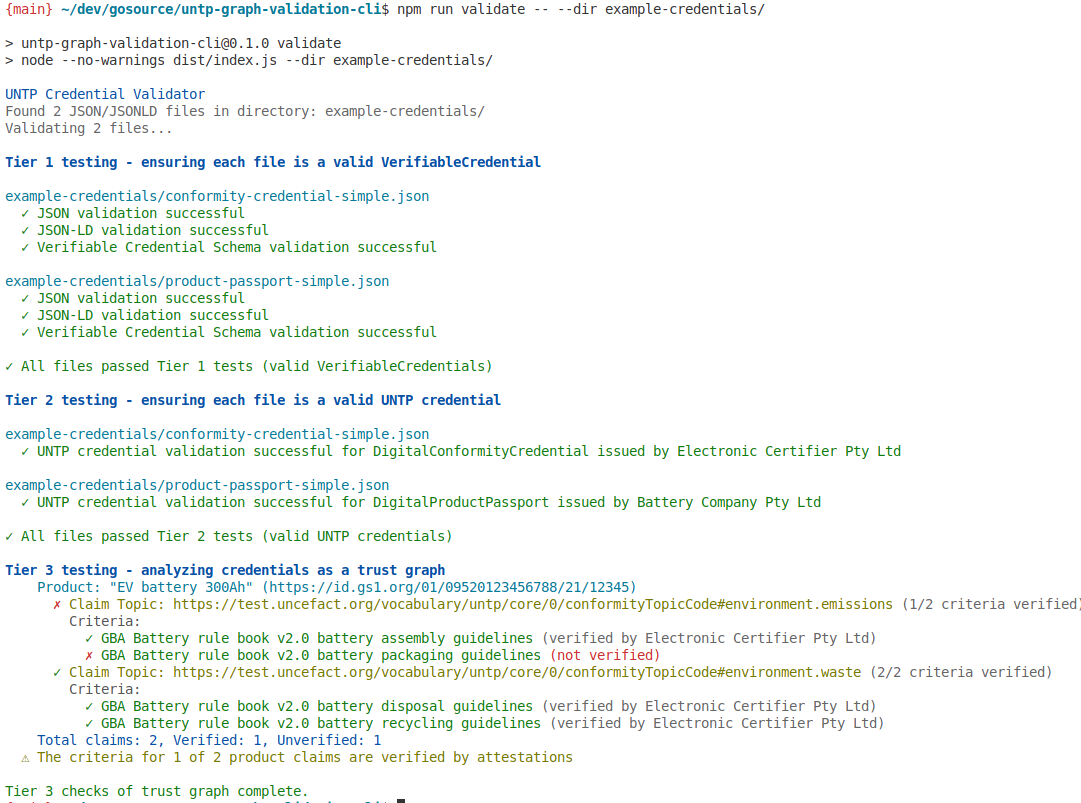
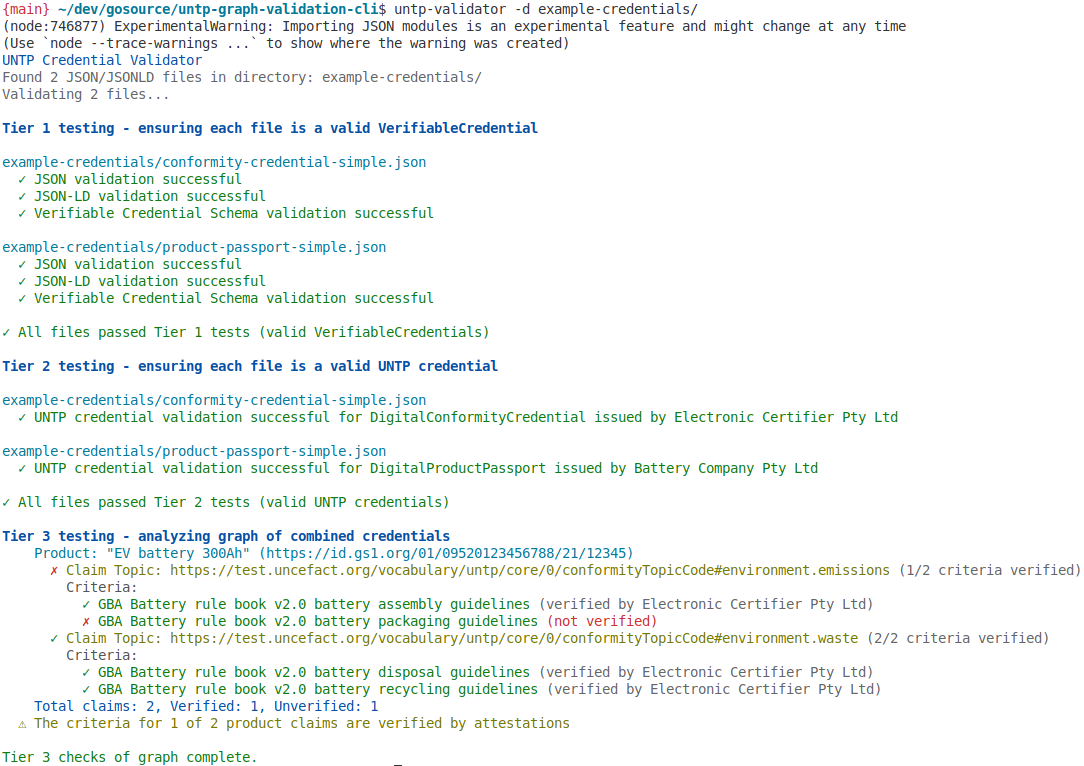
Remove word 'trust' from each occurance where it deosn't fit

Changed region(s): [[0.0, 0.0, 1.0, 1.0], [0.3663, 0.9909, 0.3969, 1.0]]

diff --git a/src/cli/tier3.ts b/src/cli/tier3.ts
@@ -113,11 +113,11 @@ export async function tier3ChecksForGraph(
   totalFiles: number;
   results: Record<string, ValidationResult>;
 }> {
-  console.log(chalk.blue.bold('\nTier 3 testing - analyzing credentials as a trust graph'));
+  console.log(chalk.blue.bold('\nTier 3 testing - analyzing graph of combined credentials'));
 
   // Create RDF graph from all files
   if (verbose) {
-    console.log(chalk.gray('  Creating trust graph from all credentials...'));
+    console.log(chalk.gray('  Creating graph from all credentials...'));
   }
   const { store, results, allQuads } = await createRDFGraph(filesData);
 
@@ -132,11 +132,11 @@ export async function tier3ChecksForGraph(
 
     if (result.valid) {
       if (verbose) {
-        console.log(chalk.green(`  ✓ Successfully added named graph ${result.metadata?.graphName} to trust graph (${result.metadata?.graphNodes || 0} quads)`));
+        console.log(chalk.green(`  ✓ Successfully added named graph ${result.metadata?.graphName} to graph (${result.metadata?.graphNodes || 0} quads)`));
       }
       validFiles++;
     } else {
-      console.log(chalk.red('  ✗ Failed to add to trust graph'));
+      console.log(chalk.red('  ✗ Failed to add to graph'));
       result.errors.forEach(error => {
         console.log(chalk.red(`    - ${error.message}`));
       });
@@ -148,7 +148,7 @@ export async function tier3ChecksForGraph(
     // Print total graph statistics
     const totalQuads = store.size;
     if (verbose) {
-      console.log(chalk.gray('\n  Analyzing trust graph...'));
+      console.log(chalk.gray('\n  Analyzing graph...'));
       console.log(chalk.gray(`\n  Total RDF quads in graph: ${totalQuads}`));
     }
 

diff --git a/src/cli/index.ts b/src/cli/index.ts
@@ -76,7 +76,7 @@ export async function runCLI(args: string[] = process.argv): Promise<void> {
           process.exit(1);
         }
 
-        console.log(chalk.green('\nTier 3 checks of trust graph complete.'));
+        console.log(chalk.green('\nTier 3 checks of graph complete.'));
 
         // Exit with success code if we got here (all files passed)
         process.exit(0);

diff --git a/README.md b/README.md
@@ -10,7 +10,7 @@ Example output:
 
 - **Tier 1 Validation**: Ensures each file is a valid JSON linked data and conforms to the W3C Verifiable Credential schema.
 - **Tier 2 Validation**: Determines the UNTP credential type and validates credentials against the UNTP-specific schemas, including required fields.
-- **Tier 3 Validation**: Creates a trust graph from the provided credentials and analyzes the relationships between credentials using trust graph validation, as a proof-of-concept, using [notation3](https://w3c.github.io/N3/spec/), and currently supporting:
+- **Tier 3 Validation**: Creates a graph from the provided credentials and analyzes the relationships between credentials using graph validation, as a proof-of-concept, using [notation3](https://w3c.github.io/N3/spec/), and currently supporting:
   - Verification of the criteria of product claims against conformity attestations
   - Saving the graph locally to ease the development of further N3 queries using semantic reasoning on the command-line.
 
@@ -53,7 +53,7 @@ npm run validate -- --save-graph example-credentials/product-passport-simple.jso
 
 ## Notation3 Queries
 
-The Tier 3 validation uses N3 queries to analyze relationships between credentials within the trust graph.
+The Tier 3 validation uses N3 queries to analyze relationships between credentials within the graph.
 
 The simplest of the UNTP N3 queries is [list-all-product-claim-criteria.n3](src/core/queries/list-all-product-claim-criteria.n3) which finds all product claims from DigitalProductPassports and includes the criteria, without doing any relationship analysis.
 
@@ -66,9 +66,9 @@ The queries themselves can be copied, modified and tested to create examples of 
 
 Once a new query is tested, stable and demonstrates the required validation, the UNTP validator CLI tool can then be updated to include the new query in its tests and present the results appropriately.
 
-This section explains how to develop and test new N3 queries for the UNTP credential validation tool. The tool uses the [EYE reasoner for JS](https://github.com/eyereasoner/eye-js) to execute N3 queries against trust graphs generated from UNTP credentials.
+This section explains how to develop and test new N3 queries for the UNTP credential validation tool. The tool uses the [EYE reasoner for JS](https://github.com/eyereasoner/eye-js) to execute N3 queries against graphs generated from UNTP credentials.
 
-### Generating a trust graph
+### Generating a graph
 
 First we need some graph data to work with. To generate an RDF graph from the example credentials, use the `--save-graph` option:
 
@@ -146,7 +146,7 @@ The UNTP Credential Validator is designed with a clear separation of concerns an
 
 - **Node.js with TypeScript**: Chosen for consistency with other UNTP libraries (such as [UNTP Test Suite](https://github.com/uncefact/tests-untp)) so that developers familiar with the UNTP ecosystem can understand and contribute to this tool.
 
-- **Notation3 (N3)**: Selected as the semantic reasoning engine after evaluating several alternatives. N3 offers several advantages for trust graph validation:
+- **Notation3 (N3)**: Selected as the semantic reasoning engine after evaluating several alternatives. N3 offers several advantages for graph validation:
    - queries that are themselves written in a small superset of RDF/Turtle which also includes declarative programming concepts,
    - allows expressing provenance of particular data (though I still have a TODO to import the credentials into separate named graphs),
    - supports pulling in additional linked data from the web when referred to by nodes.
